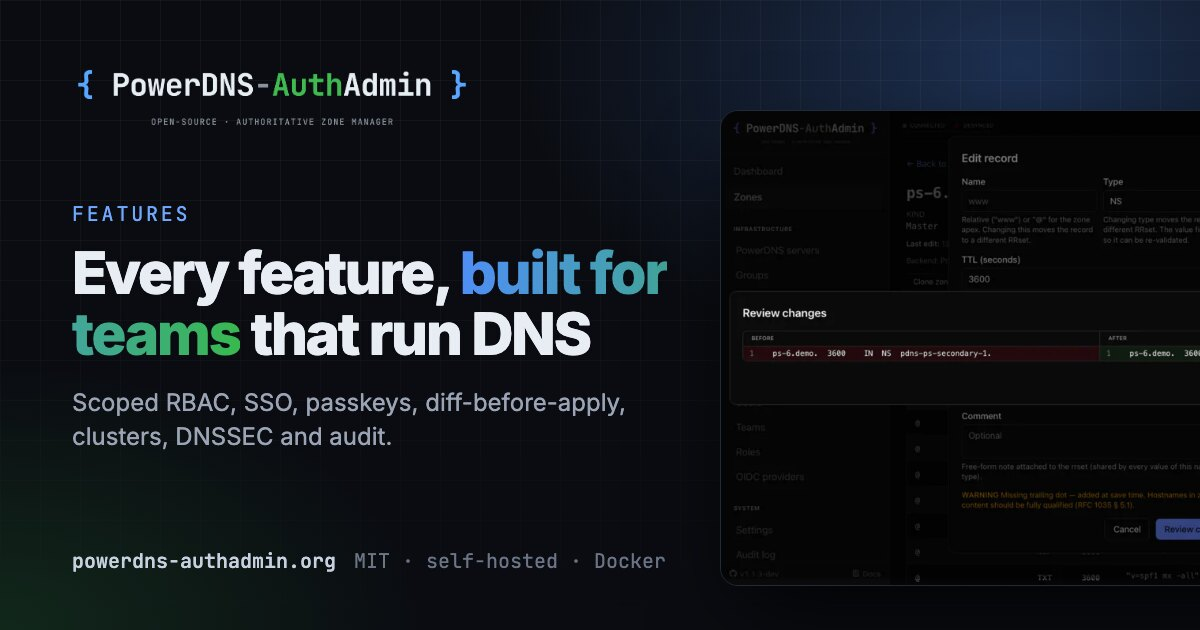
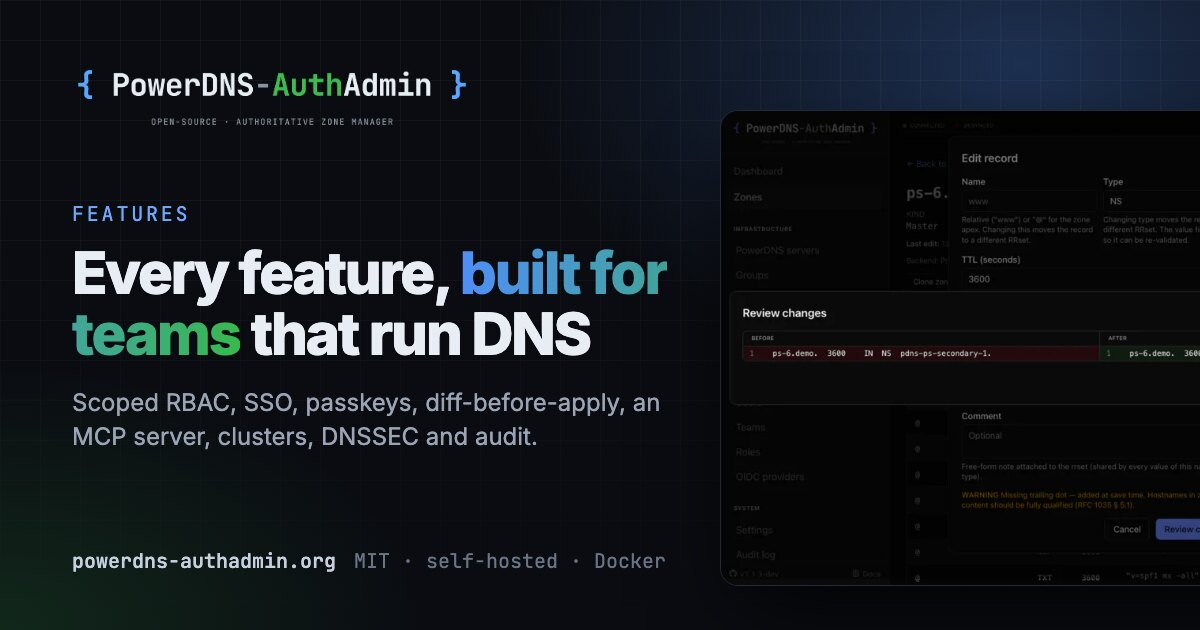
Site content for 1.9.0: MCP server (talk to your DNS) on home, features, FAQ and llms.txt
Already live; committed as-is from the working tree.

Changed region(s): [[0.0617, 0.6635, 0.4625, 0.7238], [0.5242, 0.6333, 0.555, 0.6635]]

diff --git a/src/styles.css b/src/styles.css
@@ -524,6 +524,52 @@ body.menu-open .site-header { -webkit-backdrop-filter: none; backdrop-filter: no
   background: color-mix(in srgb, var(--blue) 6%, transparent); border: 1px solid color-mix(in srgb, var(--blue) 16%, transparent);
 }
 
+/* ---------- Talk to your DNS (MCP) ---------- */
+.mcp-grid { display: grid; grid-template-columns: minmax(0, 1fr) minmax(0, 1.25fr); gap: 32px; align-items: start; }
+.mcp-notes .steps { margin-bottom: 20px; }
+.chat {
+  min-width: 0; margin: 0;
+  position: sticky; top: calc(var(--header-h) + 24px);
+  border-radius: var(--radius); overflow: hidden;
+  background: var(--bg-card); border: 1px solid var(--border); box-shadow: var(--shadow-card);
+}
+.chat-bar {
+  display: flex; align-items: center; gap: 8px; padding: 10px 16px;
+  border-bottom: 1px solid var(--border-soft); background: var(--bg-soft);
+  font-family: var(--mono); font-size: 0.78rem; font-weight: 600; color: var(--text);
+}
+.chat-dot { width: 8px; height: 8px; border-radius: 50%; background: var(--green-soft); box-shadow: 0 0 0 3px color-mix(in srgb, var(--green-soft) 22%, transparent); }
+.chat-bar-meta { margin-left: auto; font-weight: 500; color: var(--text-faint); }
+.chat-body { display: grid; gap: 14px; padding: 18px 16px 20px; }
+.chat-msg { position: relative; max-width: 92%; padding: 12px 14px; border-radius: 14px; font-size: 0.93rem; line-height: 1.55; }
+.chat-msg p { margin: 0; }
+.chat-msg p + p { margin-top: 8px; }
+.chat-msg code { font-size: 0.85em; }
+.chat-who { display: block; margin-bottom: 4px; font-family: var(--mono); font-size: 0.68rem; font-weight: 600; text-transform: uppercase; letter-spacing: 0.12em; color: var(--text-faint); }
+.chat-user { justify-self: end; border-bottom-right-radius: 4px; background: color-mix(in srgb, var(--blue) 14%, transparent); border: 1px solid color-mix(in srgb, var(--blue) 24%, transparent); }
+.chat-user .chat-who { color: var(--accent-ink); }
+.chat-bot { justify-self: start; border-bottom-left-radius: 4px; background: var(--bg-soft); border: 1px solid var(--border); color: var(--text-dim); }
+.chat-bot p strong, .chat-bot code { color: var(--text); }
+.tool-calls { display: grid; gap: 6px; margin: 0 0 12px; padding: 0; list-style: none; }
+.tool-calls li {
+  min-width: 0; display: grid; grid-template-columns: auto auto minmax(0, 1fr); gap: 4px 10px; align-items: center;
+  padding: 7px 10px; border-radius: 9px; font-family: var(--mono); font-size: 0.74rem; line-height: 1.4;
+  background: var(--bg-card); border: 1px solid var(--border-soft);
+}
+.tool-calls .i { color: var(--green-soft); }
+.tool-name { color: var(--accent-ink); font-weight: 600; }
+.tool-args { color: var(--text-faint); overflow: hidden; text-overflow: ellipsis; white-space: nowrap; }
+.tool-out { grid-column: 2 / -1; color: var(--text-dim); white-space: pre-wrap; }
+.mcp-points { display: grid; grid-template-columns: repeat(4, 1fr); gap: 14px; margin: 36px 0 0; padding: 0; list-style: none; }
+.mcp-points li { display: flex; gap: 10px; padding: 16px 18px; border-radius: var(--radius); background: var(--bg-card); border: 1px solid var(--border); font-size: 0.9rem; line-height: 1.55; color: var(--text-dim); }
+.mcp-points .i { flex-shrink: 0; margin-top: 2px; color: var(--accent-ink); }
+.mcp-points strong { color: var(--text); font-weight: 600; }
+kbd {
+  display: inline-block; min-width: 1.5em; padding: 0 5px; border-radius: 5px; text-align: center;
+  font-family: var(--mono); font-size: 0.8em; color: var(--text);
+  background: var(--bg-soft); border: 1px solid var(--border-strong); box-shadow: 0 1px 0 var(--border-strong);
+}
+
 /* ---------- Split + checklist ---------- */
 .split { display: grid; grid-template-columns: 1.1fr 1fr; gap: clamp(32px, 6vw, 72px); align-items: center; }
 .checklist { display: grid; gap: 10px; margin: 0; padding: 0; list-style: none; }
@@ -699,6 +745,9 @@ body.lightbox-open { overflow: hidden; }
   .no-js .menu-toggle { display: none; }
   .cards { grid-template-columns: repeat(2, 1fr); }
   .quickstart, .split, .cta { grid-template-columns: 1fr; }
+  .mcp-grid { grid-template-columns: minmax(0, 1fr); }
+  .chat { position: static; }
+  .mcp-points { grid-template-columns: repeat(2, 1fr); }
   .footer-inner { grid-template-columns: 1fr; gap: 36px; }
 }
 @media (max-width: 760px) {
@@ -708,7 +757,11 @@ body.lightbox-open { overflow: hidden; }
   .stats-inner { grid-template-columns: repeat(2, 1fr); }
   .stats-inner > div:nth-child(3) { border-left: 0; }
   .stats-inner > div:nth-child(n + 3) { border-top: 1px solid var(--border-soft); }
-  .cards, .feature-list, .mini-cards { grid-template-columns: 1fr; }
+  .cards, .feature-list, .mini-cards, .mcp-points { grid-template-columns: 1fr; }
+  .chat-msg { max-width: 100%; }
+  .tool-calls li { grid-template-columns: auto minmax(0, 1fr); }
+  .tool-args { grid-column: 2; white-space: normal; }
+  .tool-out { grid-column: 2; }
   .card { padding: 22px; }
   .showcase-controls { flex-direction: column; align-items: stretch; }
   .showcase-tabs { -webkit-mask-image: linear-gradient(90deg, #000 85%, transparent); mask-image: linear-gradient(90deg, #000 85%, transparent); }
